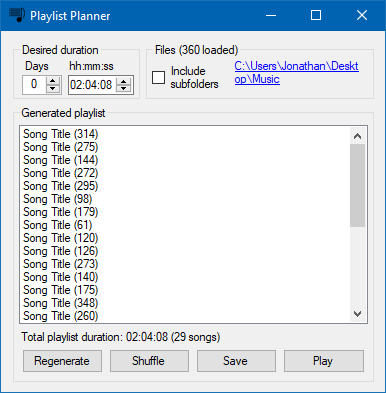
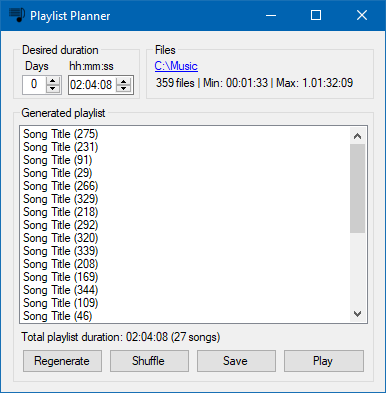
Add optional command line arguments.

diff --git a/PlaylistPlannerUI/MainForm.cs b/PlaylistPlannerUI/MainForm.cs
@@ -9,9 +9,21 @@ namespace YonatanMankovich.PlaylistPlannerUI
         private Planner PlaylistPlanner { get; set; }
         private Playlist Playlist { get; set; }
 
-        public MainForm()
+        public MainForm(string[] args)
         {
             InitializeComponent();
+            if (args.Length >= 2) // arg1 = folder path; arg2 = play until DateTime; arg3 = seconds offset
+            {
+                Show();
+                LoadFilesIntoPlanner(args[0]);
+                TimeSpan duration = DateTime.Parse(args[1]) - DateTime.Now;
+                if (args.Length >= 3)
+                    duration += TimeSpan.FromSeconds(int.Parse(args[2]));
+                daysNUD.Value = duration.Days;
+                durationPicker.Value = new DateTime(2000, 1, 1, duration.Hours, duration.Minutes, duration.Seconds);
+                regeneratePlaylistBTN.PerformClick();
+                playPlaylistBTN.PerformClick();
+            }
         }
 
         private void openFolderLLBL_LinkClicked(object sender, LinkLabelLinkClickedEventArgs e)
@@ -19,19 +31,23 @@ namespace YonatanMankovich.PlaylistPlannerUI
             DialogResult dialogResult = musicFolderBrowserDialog.ShowDialog(this);
             if (dialogResult == DialogResult.OK)
             {
-                MusicLoadingForm loadingForm = new MusicLoadingForm(musicFolderBrowserDialog.SelectedPath);
-                DialogResult loadingFormDialogResult = loadingForm.ShowDialog(this);
-                if (loadingFormDialogResult == DialogResult.OK)
-                {
-                    playlistGB.Enabled = true;
-                    openFolderLLBL.Text = musicFolderBrowserDialog.SelectedPath;
-                    PlaylistPlanner = loadingForm.PlaylistPlanner;
-                    regeneratePlaylistBTN.PerformClick();
+                LoadFilesIntoPlanner(musicFolderBrowserDialog.SelectedPath);
+                regeneratePlaylistBTN.PerformClick();
+            }
+        }
 
-                    filesInfoLBL.Text = $"{PlaylistPlanner.GetCountOfLoadedFiles()} files | Min: " +
-                        RoundTimeSpanToSeconds(PlaylistPlanner.MinimumPlaylistDuration) +
-                        $" | Max: " + RoundTimeSpanToSeconds(PlaylistPlanner.MaximumPlaylistDuration);
-                }
+        private void LoadFilesIntoPlanner(string path)
+        {
+            MusicLoadingForm loadingForm = new MusicLoadingForm(path);
+            DialogResult loadingFormDialogResult = loadingForm.ShowDialog(this);
+            if (loadingFormDialogResult == DialogResult.OK)
+            {
+                playlistGB.Enabled = true;
+                openFolderLLBL.Text = path;
+                PlaylistPlanner = loadingForm.PlaylistPlanner;
+                filesInfoLBL.Text = $"{PlaylistPlanner.GetCountOfLoadedFiles()} files | Min: " +
+                    RoundTimeSpanToSeconds(PlaylistPlanner.MinimumPlaylistDuration) +
+                    $" | Max: " + RoundTimeSpanToSeconds(PlaylistPlanner.MaximumPlaylistDuration);
             }
         }
 

diff --git a/PlaylistPlannerUI/Properties/AssemblyInfo.cs b/PlaylistPlannerUI/Properties/AssemblyInfo.cs
@@ -10,7 +10,7 @@ using System.Runtime.InteropServices;
 [assembly: AssemblyConfiguration("")]
 [assembly: AssemblyCompany("Yonatan Mankovich")]
 [assembly: AssemblyProduct("YonatanMankovich.PlaylistPlannerUI")]
-[assembly: AssemblyCopyright("Copyright ©  2020 Yonatan Mankovich")]
+[assembly: AssemblyCopyright("Copyright © 2020 Yonatan Mankovich")]
 [assembly: AssemblyTrademark("")]
 [assembly: AssemblyCulture("")]
 
@@ -32,5 +32,5 @@ using System.Runtime.InteropServices;
 // You can specify all the values or you can default the Build and Revision Numbers
 // by using the '*' as shown below:
 // [assembly: AssemblyVersion("1.0.*")]
-[assembly: AssemblyVersion("1.0.0.0")]
-[assembly: AssemblyFileVersion("1.0.0.0")]
+[assembly: AssemblyVersion("1.1.0.0")]
+[assembly: AssemblyFileVersion("1.1.0.0")]

diff --git a/PlaylistPlannerUI/Program.cs b/PlaylistPlannerUI/Program.cs
@@ -7,11 +7,12 @@ namespace YonatanMankovich.PlaylistPlannerUI
     {
         /// <summary> The main entry point for the application. </summary>
         [STAThread]
-        static void Main()
+        static void Main(string[] args)
         {
+            //args = new string[] { @"C:\Users\Jonathan\OneDrive\Music", "02/02/2020 2:02:02 PM", "-3" };
             Application.EnableVisualStyles();
             Application.SetCompatibleTextRenderingDefault(false);
-            Application.Run(new MainForm());
+            Application.Run(new MainForm(args));
         }
     }
 }

diff --git a/PlaylistPlanner/Planner.cs b/PlaylistPlanner/Planner.cs
@@ -61,6 +61,11 @@ namespace YonatanMankovich.PlaylistPlanner
                 {
                     unknownDurationFiles.Add(e.PathToMedia);
                 }
+                catch (ArgumentException e)
+                {
+                    if (!e.Message.Equals("An item with the same key has already been added."))
+                        throw e;
+                }
                 catch (Exception e)
                 {
                     throw e;

diff --git a/README.md b/README.md
@@ -5,3 +5,12 @@ A simple tool to create music playlists of exact durations.
 ## Screenshot
 
 ![screenshot](media/screenshot.png)
+
+## Optional Command Line Arguments
+
+1. Path to a folder with music files.
+2. Date and time at which the generated playlist should stop playing.
+3. Optional offset in seconds.
+
+For example:
+`"Playlist Planner.exe" "C:\Users\Yonatan\Music" "02/02/2020 2:02:02 PM" -3` will generate a playlist and start playing it.
